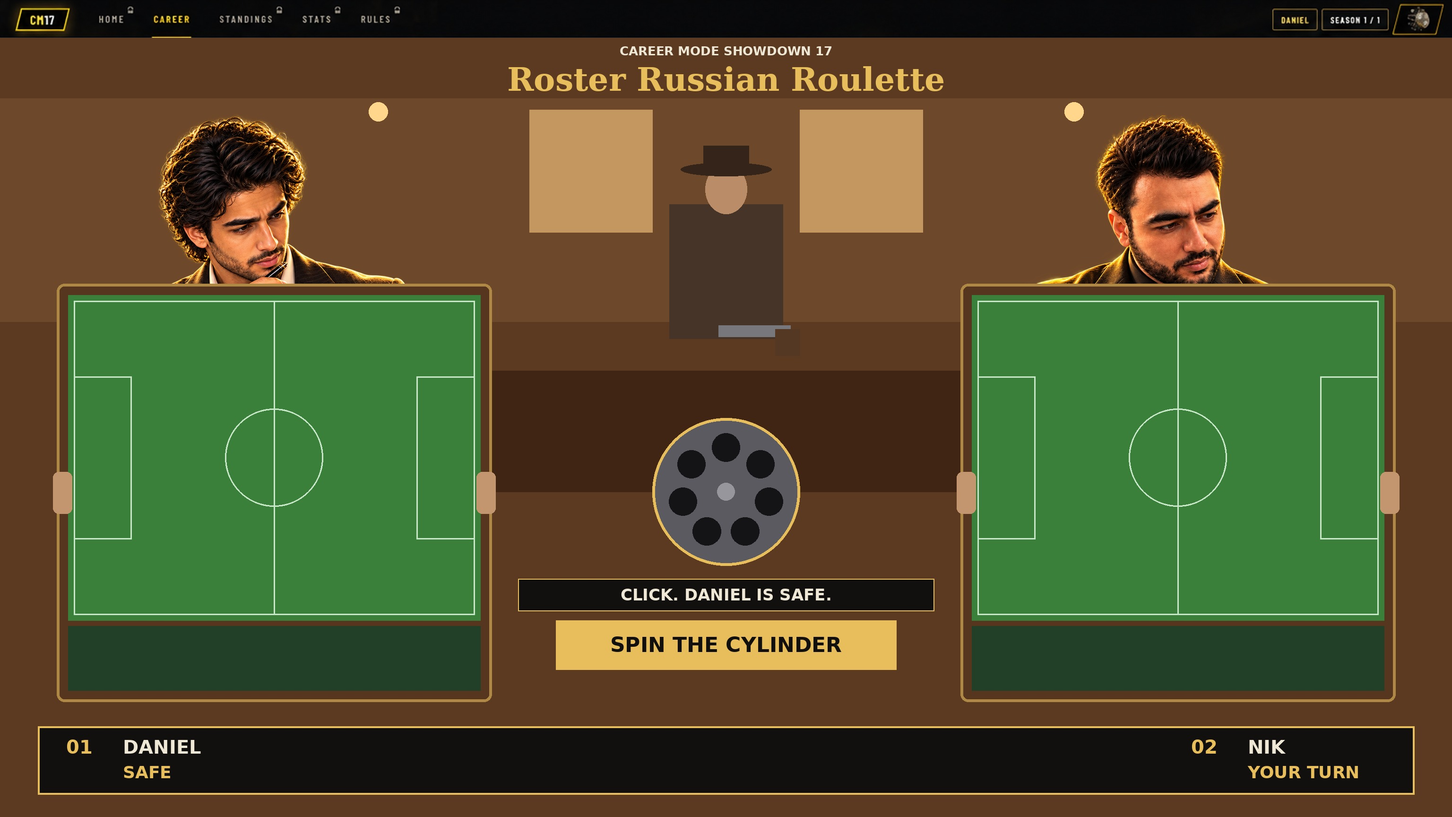
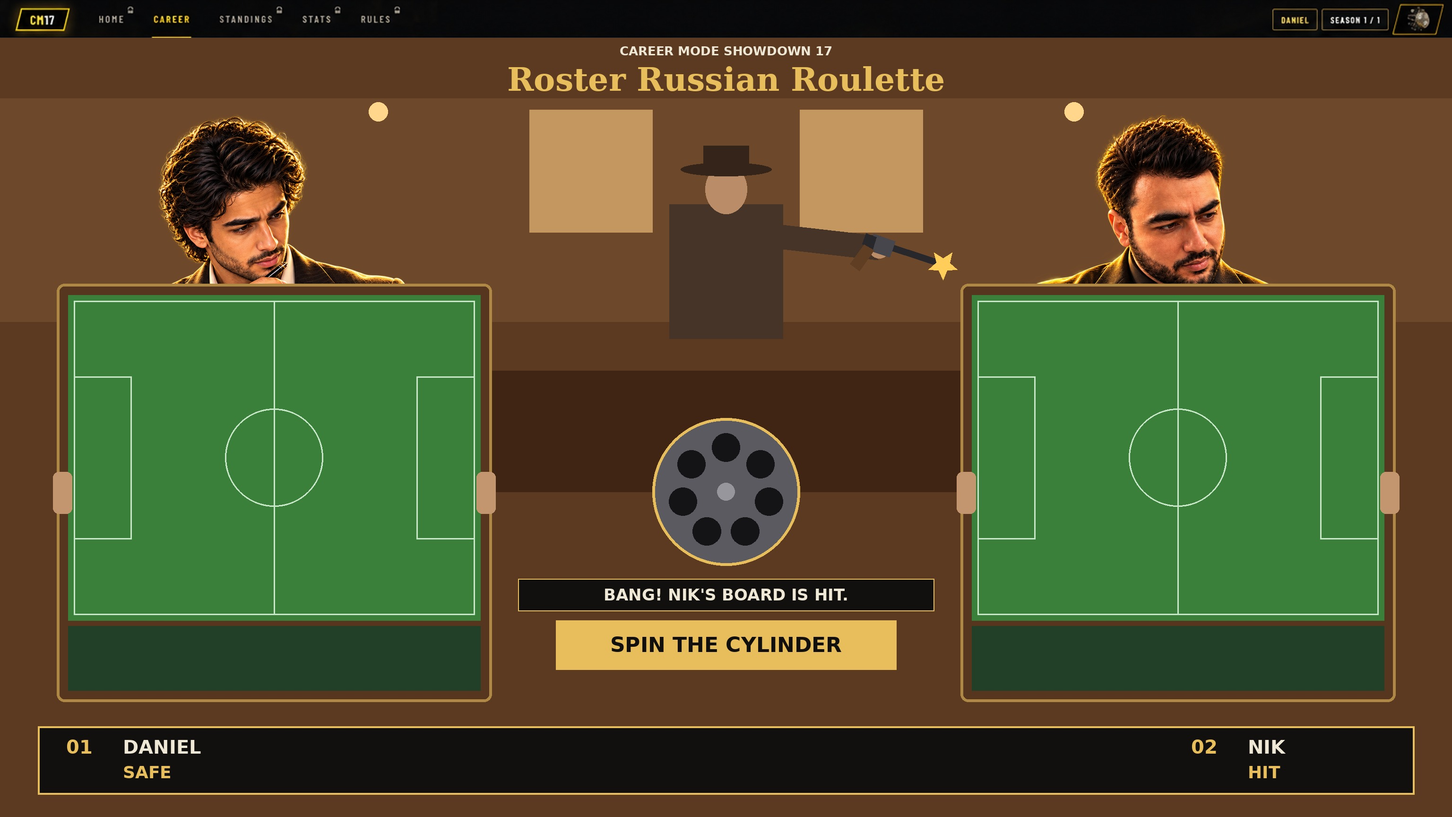
HO-040: tickets 1851-5..8 (room, dealer with revolver, Daniel and Nik board cut-outs), shot moment in 1851-1/2, CC-009 Fable 3D brief
Claude-Session: https://claude.ai/code/session_01GU43Q5sYPRm7BBmhFhnbcd

diff --git a/project-documents/factory/handoffs/CC-009_ROULETTE_3D_FABLE.md b/project-documents/factory/handoffs/CC-009_ROULETTE_3D_FABLE.md
@@ -1,0 +1,61 @@
+# CC-009 · Roster Russian Roulette: real 3D screen (HO-040, r87)
+
+MODEL: Fable 5.1 · EFFORT: High · SURFACE: Claude Code cloud session (claude.ai/code)
+STOP_BUDGET: $35 / 75 min. At 80% ($28) stop adding scope, commit, write BUILD_RESULT.md. At 100% stop.
+REPO: nikahanghojjati-oss/fifa17-career-showdown2
+START FROM: branch `claude/project-thread-6rq94x`. Commit and push to the branch your session is given; name it in BUILD_RESULT.md.
+WRITE ONLY IN: `visual-assets/v10_1/roulette/` (new). Never touch main, gameplay branches or other screens.
+
+## Goal
+Nik (owner) wants a **real 3D screen like the approved Special Player screen** (`visual-assets/v10_1/special-player/index.html` on `origin/factory/v1-wtt5ye`, three.js r128 from cdnjs, one HTML file + assets). Quality bar: 10 out of 10. His words: "a Red Dead Redemption game scene ... cafe or cowboy restaurant (NOT a saloon) ... a guy is sitting ... we spin the gun and it just shoots ... me and Daniel are holding two boards". He rated the shooter and the gun in his hand 3/10 in the flat sketch; **the shooter, the gun and the shot are the heart of this job.**
+
+Read first (in this order, nothing else needed):
+1. `project-documents/factory/r87/ROULETTE_PLAN.md` (look, layout numbers, hybrid 3D decision)
+2. `project-documents/factory/r87/NIK_REF_*.jpg|png` (4 room references: lamplit carved wood, gold ornaments, rows of glass lamps, balcony, green-felt round table; look only)
+3. `visual-assets/v10_1/special-player/index.html` (reuse its HUD CSS, fonts, test clock `window.__mq`, `?tools=1`, Web Audio pattern)
+4. Squads: `git show origin/research/r87-squads:gameplay/r87/squads/SQUADS_LAUNCH_170002.json` (FIFA 17 launch XI + 4 subs, 98 clubs: pos, name, number, rating)
+5. FIFA 17 squad screen look: `gameplay/r87/reference/fifa17-squad-screen-*.png` on that same branch.
+
+## Hybrid 3D (Nik's decision, do not change)
+Real 3D in three.js: room shell, round table with green felt + wooden rim, brass oil lantern (flickering point light), cups/coffee pot/cards, **the revolver with a seven-chamber cylinder**, the two boards, all lights, smoke, flash, bullet, camera moves. People are **picture layers** (camera-facing planes at real depth), because Nik's and Daniel's faces must stay exact. Never model or distort their faces.
+
+Picture layers are being made by Nik in ChatGPT now (tickets 1851-5..8). Build with fallbacks and an asset contract so each picture drops in with no code change:
+| file in `roulette/assets/` | ticket | until it exists |
+| --- | --- | --- |
+| `RR_ROOM.jpg` (16:9, empty room) | 1851-5 | build the room fully in 3D (fallback must look good on its own) |
+| `RR_DEALER.png` (alpha; seated, right arm out, revolver in hand aiming image-right) | 1851-6 | see "The shooter" |
+| `RR_DANIEL.png`, `RR_NIK.png` (alpha; holding board, green inside) | 1851-7/8 | anchors `visual-assets/v10_1/tr2/slice-01/assets/src/POSE_TRANSFER_{DANIEL_FOCUSED,NIK_TACTICAL}_V1.png` (factory/v1-wtt5ye) behind 3D boards |
+| `RR_FLASH.png`, `RR_CYLINDER.png` | 1851-4/3 | procedural flash sprite; 3D cylinder |
+Put the muzzle point, hand point and board quads for each layer in `roulette/platemap.json` so swapping is a number edit.
+
+## The shooter (most important)
+- The dealer is an original older cowboy (never Arthur Morgan / John Marston) seated across the table, facing camera.
+- **The revolver is a detailed real 3D model in his hand** (1873 single-action style: octagonal barrel, ejector rod, frame, fluted 7-chamber cylinder that really rotates on its axis, hammer that cocks, trigger, trigger guard, wooden grip). PBR steel (blued, worn edges) with a PMREM env map from the room so it reflects the lamps.
+- Until RR_DEALER.png exists, keep him convincing without a picture: dark-lit, hat brim shading the eyes, built from smooth 3D forms (coat, hat, shoulders, arm + gloved hand wrapped round the grip) and lit like the room; the gun and gloved hand are the sharp hero in the light. No primitive "robot" look; if a form can't look good, hide it in shadow or the frame edge. When the picture arrives, the 3D gun is hidden in wide shots and only used for the close-ups.
+- **Sequence per turn** (Daniel first, then Nik; 1 bullet in 7 chambers, seeded random; `?fire=1` forces a shot, `?fire=0` forces empty):
+  1. Idle: slow camera drift, lantern flicker, dust in light beams. Button SPIN THE CYLINDER.
+  2. Close-up: the cylinder swings out, one brass round slides in (first turn only), the cylinder snaps shut and is spun by the gloved hand: fast spin with real ratchet clicks, slows, settles on a chamber.
+  3. The hand raises the gun, thumb cocks the hammer, the gun aims at the current manager's **board** (never a face or body; aim at the target bubble on the board). 0.8 s tension: camera push-in, lantern sound, heartbeat.
+  4a. Empty: hammer falls, dry CLICK, small dust puff. Result line "CLICK. DANIEL IS SAFE." (or NIK).
+  4b. Shot: hammer falls, muzzle flash (additive sprite + 1-frame point light that lights the whole room), recoil kick of the gun and arm, smoke puff that lingers and drifts, a hot bullet tracer (fast, 0.12 s) to one random player bubble of the 15 on that manager's board, splinters/paper bits fly, the board jolts in his hands, a burnt hole decal stays on that bubble, the bubble turns red with RELEASED. Camera shake. Result line "BANG! <PLAYER NAME> IS RELEASED." Not gory, nobody is hurt.
+- Sound in Web Audio, off until the player turns it on (same as Special Player).
+
+## Boards (FIFA 17 squad screen look, from data)
+Wooden frame with brass corners. Inside: green pitch with white lines and the starting XI placed by position (GK bottom, attackers top), each a shirt in club colours + rating + short name like the FIFA 17 squad screen; under it one row of 4 subs. Draw on a CanvasTexture at 2x (crisp names). Preview: Daniel = Manchester United, Nik = Real Madrid; `?d=<club>&n=<club>` picks any club from the JSON. Expose `window.__rr.setBoards(danielClub, nikClub)` and `window.__rr.play({fire:true|false})` for Team G.
+
+## HUD (HTML over the canvas, reuse Special Player CSS)
+Desktop: top bar CM17 + HOME, CAREER (active), STANDINGS, STATS, RULES + chips DANIEL, SEASON 1 / 1 + gear; title "CAREER MODE SHOWDOWN 17" small + "Roster Russian Roulette" (gold, engraved Western feel); one result line; gold SPIN THE CYLINDER button; bottom panel 01 DANIEL + state / 02 NIK + state. Phone (<=900 px, upright): chips top-left, gear top-right, title, scene, result line, button, bottom tabs HOME CAREER STANDINGS STATS RULES. Camera/FOV re-framed for portrait so both boards are readable.
+
+## Hard rules
+- Daniel always LEFT, Nik always RIGHT, never mirrored. The dealer may be mirrored.
+- No dimming, grey/dark overlays, blur or see-through filters on any person or the screen (HO-027). Everyone lit naturally.
+- Not a saloon: no swinging doors, dancers, bar-fight props. No words in the room, no real logos, no real crests traced.
+- Phone no scroll at 393x660, 360x640, 375x553 (button visible). Nothing covers the button or bars.
+- Only three.js r128 (cdnjs) and Google Fonts. Lazy-loadable: one `index.html` + `assets/`; assets total <= 10 MB.
+- `prefers-reduced-motion`: shorten beats, no shake.
+
+## Prove it (assertions, not claims)
+Playwright (preinstalled, `require('playwright')`). Capture with the test clock at: idle, cylinder spin, aim, shot (flash frame), after shot, safe click, for desktop 1536x864 and phone 393x660 (+ 360x640, 375x553 idle). Save to `roulette/evidence/*.jpg`. Assert: no page scroll on phone sizes; button rect inside viewport; no console errors; FPS on desktop >= 50 (log it). Look at every capture yourself and fix what looks cheap before you finish, the shooter first.
+
+## Write at the end
+`visual-assets/v10_1/roulette/BUILD_RESULT.md`: branch + SHA, what is 3D, asset contract table, platemap, Team G hooks, evidence gallery list, known gaps, spend. Last line: `CC-009 DONE <sha>`.

diff --git a/project-documents/factory/tickets/TICKET-1851_1_OF_4_NEXT_ROULETTE.md b/project-documents/factory/tickets/TICKET-1851_1_OF_4_NEXT_ROULETTE.md
@@ -14,8 +14,8 @@ Steps for Nik:
    - looks like a real Red Dead Redemption 2-quality 3D game scene: a rich lamplit cowboy cafe: carved dark wood with gold ornaments, rows of glowing lamps, a balcony behind, round green-felt table with a lantern (not a saloon)
    - Daniel LEFT and Nik RIGHT look like themselves, in Western clothes, each holding a wooden board with both hands
    - both boards show an EMPTY green pitch and an empty dark strip under it (no players, no writing)
-   - an original older cowboy sits in the middle with the revolver on the table, pointing at the wall, not at anyone
-   - the steel seven-chamber cylinder in the middle, the line CLICK. DANIEL IS SAFE., the gold SPIN THE CYLINDER button, the bottom panel (01 DANIEL SAFE, 02 NIK YOUR TURN) and the top bar match the sketch word for word
+   - the cowboy in the middle fires the revolver from his outstretched hand at the top corner of Nik's board: whole gun clearly in his hand, flash, smoke, bullet streak; never at a face or body
+   - the steel seven-chamber cylinder in the middle, the line BANG! NIK'S BOARD IS HIT., the gold SPIN THE CYLINDER button, the bottom panel (01 DANIEL SAFE, 02 NIK HIT) and the top bar match the sketch word for word
    - nobody looks dimmed or greyed
    - Save only the picture this chat just made.
 5. If it passes, download it and drop it into the Roster Russian Roulette thread with `1851-1 DESKTOP`. If it fails, start again in a new chat (up to 3 tries).
@@ -29,9 +29,9 @@ Turn this flat layout sketch into a finished, photorealistic desktop game screen
 MOST IMPORTANT (never break these):
 - Use ONLY the words in the sketch, copied letter for letter. No other words anywhere: no signs, menus, posters, labels, logos or brand names in the room.
 - No new or moved buttons, tabs or icons. Never add SQUAD, TRANSFERS, COMPETITIONS, COMPETE, PROFILE, SHOP, a bell, an avatar or a search icon.
-- Nobody is hurt and no gun points at a person. No blood.
+- Nobody is hurt; the gun aims only at the corner of Nik's board, never at a face or body. No blood.
 - No characters from any real game or film; no real logos.
-- Words allowed, letter for letter: CAREER MODE SHOWDOWN 17, Roster Russian Roulette, CLICK. DANIEL IS SAFE., SPIN THE CYLINDER, 01, DANIEL, SAFE, 02, NIK, YOUR TURN, and the top bar exactly as drawn (CM17, HOME, CAREER, STANDINGS, STATS, RULES, and the small chips and gear at the right).
+- Words allowed, letter for letter: CAREER MODE SHOWDOWN 17, Roster Russian Roulette, BANG! NIK'S BOARD IS HIT., SPIN THE CYLINDER, 01, DANIEL, SAFE, 02, NIK, HIT, and the top bar exactly as drawn (CM17, HOME, CAREER, STANDINGS, STATS, RULES, and the small chips and gear at the right).
 
 The room (a cowboy cafe or restaurant, NOT a saloon: no bar fight, no dancers, no swinging doors):
 - An elegant 1899 Western town cafe in the evening, rich and warm like a top-quality 3D Western video game (the Red Dead Redemption 2 look and quality): dark carved wood panelling with thin gold art-nouveau ornaments, a coffered wooden ceiling with rows of glowing glass lamp shades, brass wall sconces, a wooden balcony with white turned railings in the background, a polished counter with lamps far behind, dark plank floor, a tall window showing a dusky blue street.
@@ -39,8 +39,9 @@ The room (a cowboy cafe or restaurant, NOT a saloon: no bar fight, no dancers, n
 - Warm amber lamplight, deep but natural shadows, rich wood and brass textures, photoreal, cinematic depth of field. Only the three men in the scene.
 
 The dealer (an ORIGINAL character, not from any game or film):
-- A weathered older Western man sitting at the far side of the table, facing us, in the place of the plain figure in the sketch: grey stubble, a dark felt hat with a flat brim, a waistcoat over a collarless shirt with rolled sleeves, a calm stare.
-- He holds an old seven-shot revolver in one hand resting on the green felt, pointing at the side wall, never at a person.
+- A weathered Western man of about 55 sitting at the far side of the table, facing us, in the place of the plain figure in the sketch: grey stubble, a dark brown felt hat with a flat brim, a long dark grey coat over a brown waistcoat and a collarless off-white shirt, a calm, dangerous stare.
+- THE MOMENT OF THE SHOT, exactly as the sketch shows: his right arm is stretched out towards Nik's board, an old 1873-style revolver held firmly in his right hand (whole gun visible: long barrel, round cylinder, hammer, trigger guard, wooden grip; finger on the trigger, five fingers). The gun fires at the TOP LEFT CORNER of Nik's board only, far from Nik's face and body: a bright orange-white muzzle flash, a puff of grey smoke, a thin glowing bullet streak to the board corner and a few wood splinters there. Not aimed at any person, no blood.
+- He is lit as well as everyone else and is sharp and detailed: a real top-quality 3D game character.
 
 Daniel (left) and Nik (right):
 - Keep both men from the sketch exactly as they are: same faces, same hair, same beards, same skin tones, same build. Daniel always on the LEFT, Nik always on the RIGHT. Never swap or mirror them.
@@ -52,14 +53,14 @@ The two boards (the game draws the players on them later):
 - Each board is a sturdy wooden frame with brass corners, held flat and square to the camera exactly where the sketch shows it.
 - Inside each frame: a flat, evenly lit green football pitch with thin white lines exactly as in the sketch, and below it the plain dark green strip. Keep both COMPLETELY EMPTY: no players, shirts, names, numbers, dots or writing.
 
-The seven-chamber cylinder:
+The seven-chamber cylinder (Version 3, 29 Oct 1:55 a.m. UTC: the shot moment):
 - The round grey disc with seven holes in the sketch becomes a polished steel revolver cylinder seen straight on, seven empty chambers in a ring, with a thin gold rim, floating as a game element in the same place and size.
 
 The interface (keep it exactly where the sketch has it):
 - The top bar stays exactly as in the sketch.
 - At the top centre: CAREER MODE SHOWDOWN 17 small, and under it Roster Russian Roulette as a premium gold title with an engraved Western look, like a luxury gold-leaf sign.
-- Under the cylinder: a slim black strip with a thin gold edge holding CLICK. DANIEL IS SAFE., then the polished gold SPIN THE CYLINDER button.
-- At the bottom: a slim glossy black panel with a thin gold edge: left 01 DANIEL with SAFE under it, right 02 NIK with YOUR TURN under it.
+- Under the cylinder: a slim black strip with a thin gold edge holding BANG! NIK'S BOARD IS HIT., then the polished gold SPIN THE CYLINDER button.
+- At the bottom: a slim glossy black panel with a thin gold edge: left 01 DANIEL with SAFE under it, right 02 NIK with HIT under it.
 - Nothing covers anything else. Every word sharp and easy to read.
 
 Same wide landscape framing as the sketch, 16:9, largest size available.

diff --git a/project-documents/factory/tickets/TICKET-1851_2_OF_4_PHONE_ROULETTE.md b/project-documents/factory/tickets/TICKET-1851_2_OF_4_PHONE_ROULETTE.md
@@ -13,9 +13,9 @@ Steps for Nik:
 4. Check the picture:
    - same Red Dead Redemption 2-quality cowboy cafe look as the desktop (not a saloon)
    - Daniel LEFT and Nik RIGHT look like themselves, each holding an upright wooden board; boards EMPTY inside
-   - the cowboy dealer in the middle behind them, revolver pointing at the wall
+   - the cowboy in the middle fires the revolver from his outstretched hand at the top corner of Nik's board
    - top left DANIEL and SEASON 1 / 1, gear top right; bottom tabs HOME, CAREER (gold), STANDINGS, STATS, RULES with their icons
-   - CLICK. DANIEL IS SAFE. and the gold SPIN THE CYLINDER button above the tabs
+   - BANG! NIK'S BOARD IS HIT. and the gold SPIN THE CYLINDER button above the tabs
    - nobody looks dimmed or greyed
    - Save only the picture this chat just made.
 5. If it passes, download it and drop it into the Roster Russian Roulette thread with `1851-2 PHONE`. If it fails, start again in a new chat (up to 3 tries).
@@ -29,9 +29,9 @@ Turn this flat phone layout sketch into a finished, photorealistic upright phone
 MOST IMPORTANT (never break these):
 - Use ONLY the words in the sketch, copied letter for letter. No other words anywhere: no signs, menus, posters, labels, logos or brand names in the room.
 - No new or moved buttons, tabs or icons. Never add SQUAD, TRANSFERS, COMPETITIONS, COMPETE, PROFILE, SHOP, a bell, an avatar or a search icon.
-- Nobody is hurt and no gun points at a person. No blood.
+- Nobody is hurt; the gun aims only at the corner of Nik's board, never at a face or body. No blood.
 - No characters from any real game or film; no real logos.
-- Words allowed, letter for letter: DANIEL, SEASON 1 / 1, CAREER MODE SHOWDOWN 17, Roster Russian Roulette, CLICK. DANIEL IS SAFE., SPIN THE CYLINDER, and the bottom tabs HOME, CAREER, STANDINGS, STATS, RULES.
+- Words allowed, letter for letter: DANIEL, SEASON 1 / 1, CAREER MODE SHOWDOWN 17, Roster Russian Roulette, BANG! NIK'S BOARD IS HIT., SPIN THE CYLINDER, and the bottom tabs HOME, CAREER, STANDINGS, STATS, RULES.
 - The bars stay exactly: two chips at the top left (DANIEL, SEASON 1 / 1) and a gold gear at the top right; the bottom tabs HOME (house), CAREER (trophy, highlighted gold), STANDINGS (three lines), STATS (bar chart), RULES (page).
 
 The room (a cowboy cafe or restaurant, NOT a saloon: no bar fight, no dancers, no swinging doors):
@@ -40,8 +40,9 @@ The room (a cowboy cafe or restaurant, NOT a saloon: no bar fight, no dancers, n
 - Warm amber lamplight, deep but natural shadows, rich wood and brass textures, photoreal, cinematic depth of field. Only the three men in the scene.
 
 The dealer (an ORIGINAL character, not from any game or film):
-- A weathered older Western man sitting at the far side of the table, facing us, in the place of the plain figure in the sketch: grey stubble, a dark felt hat with a flat brim, a waistcoat over a collarless shirt with rolled sleeves, a calm stare.
-- He holds an old seven-shot revolver in one hand resting on the green felt, pointing at the side wall, never at a person.
+- A weathered Western man of about 55 sitting at the far side of the table, facing us, in the place of the plain figure in the sketch: grey stubble, a dark brown felt hat with a flat brim, a long dark grey coat over a brown waistcoat and a collarless off-white shirt, a calm, dangerous stare.
+- THE MOMENT OF THE SHOT, exactly as the sketch shows: his right arm is stretched out towards Nik's board, an old 1873-style revolver held firmly in his right hand (whole gun visible: long barrel, round cylinder, hammer, trigger guard, wooden grip; finger on the trigger, five fingers). The gun fires at the TOP LEFT CORNER of Nik's board only, far from Nik's face and body: a bright orange-white muzzle flash, a puff of grey smoke, a thin glowing bullet streak to the board corner and a few wood splinters there. Not aimed at any person, no blood.
+- He is lit as well as everyone else and is sharp and detailed: a real top-quality 3D game character.
 
 Daniel (left) and Nik (right):
 - Keep both men from the sketch exactly as they are: same faces, same hair, same beards, same skin tones, same build. Daniel always on the LEFT, Nik always on the RIGHT. Never swap or mirror them.
@@ -53,12 +54,12 @@ The two boards (the game draws the players on them later):
 - Each board is a sturdy wooden frame with brass corners, held flat and square to the camera exactly where the sketch shows it.
 - Inside each frame: a flat, evenly lit green football pitch with thin white lines exactly as in the sketch, and below it the plain dark green strip. Keep both COMPLETELY EMPTY: no players, shirts, names, numbers, dots or writing.
 
-The seven-chamber cylinder:
+The seven-chamber cylinder (Version 3, 29 Oct 1:55 a.m. UTC: the shot moment):
 - The round grey disc with seven holes in the sketch becomes a polished steel revolver cylinder seen straight on, seven empty chambers in a ring, with a thin gold rim, floating as a game element in the same place and size.
 
 The interface (keep it exactly where the sketch has it):
 - CAREER MODE SHOWDOWN 17 small, and under it Roster Russian Roulette as a premium gold title with an engraved Western look.
-- Under the boards: a slim black strip with a thin gold edge holding CLICK. DANIEL IS SAFE., then the polished gold SPIN THE CYLINDER button, then the black bottom tab bar with a thin gold line on top.
+- Under the boards: a slim black strip with a thin gold edge holding BANG! NIK'S BOARD IS HIT., then the polished gold SPIN THE CYLINDER button, then the black bottom tab bar with a thin gold line on top.
 - Nothing covers anything else. Every word sharp and easy to read.
 
 Same upright phone framing as the sketch, portrait 9:16 or taller, largest size available.

diff --git a/project-documents/factory/tickets/TICKET-1851_6_OF_8_RR_DEALER.md b/project-documents/factory/tickets/TICKET-1851_6_OF_8_RR_DEALER.md
@@ -1,0 +1,36 @@
+# Ticket 1851 · 6 of 8 · 3D layer: the dealer with the revolver in his hand (r87, HO-040)
+
+One picture only. Thu 29 Oct 2026, Team V. Nik: the shooter and the gun in his hand must be 10 out of 10. This is the man who shoots. He sits at the far side of the 3D table; code adds the flash, smoke, recoil and bullet at his gun's muzzle, and mirrors him when he turns to Daniel's board.
+
+**Read this first:** this ticket is for Nik. Do not upload this file to ChatGPT; paste only the prompt.
+
+**Save the result as:** `RR_DEALER.png`
+
+Steps for Nik:
+1. Open a **normal new ChatGPT chat outside any project** (not a Temporary Chat).
+2. Attach nothing.
+3. Paste the prompt below exactly. If ChatGPT offers to change it, reply: `No, use my prompt exactly.`
+4. Check the picture against the list below. Save only the picture this chat just made.
+5. If it passes, download it and drop it into the Roster Russian Roulette thread with `1851-6 DEALER`. If it fails, start again in a new chat (up to 3 tries).
+
+Check list:
+- looks like a real top-quality 3D Western game character (Red Dead Redemption 2 level), NOT any real game character (not Arthur Morgan or John Marston)
+- sitting, seen from the front, cut at the waist, on plain grey
+- his RIGHT arm stretched out towards the RIGHT edge of the picture, an old revolver held firmly in his hand: whole gun visible, finger on the trigger, thumb near the hammer, five fingers
+- aiming out of the picture to the right, NOT at us
+- no table, no other people, no words
+
+Prompt:
+
+```
+A photorealistic character render from a top-quality 3D Western video game (the Red Dead Redemption 2 look and quality) of an ORIGINAL character, not from any game or film: a weathered Western man of about 55, sitting on a chair, seen from the front at eye level, cut at the waist, on a plain flat mid-grey background.
+
+MOST IMPORTANT (never break these):
+- His right arm is stretched straight out towards the RIGHT edge of the picture, holding an old 1873-style single-action revolver firmly in his right hand, the gun seen clearly from the side, aiming out of the picture to the right. He never aims at the viewer.
+- The whole revolver is visible and correct: long barrel, round cylinder, hammer, trigger guard, wooden grip; his index finger on the trigger, thumb near the hammer, five fingers.
+- Nothing else: no table, no other people, no words, no logos.
+
+Him: deep-set grey eyes with a calm, dangerous stare towards the right, grey stubble, a weathered tanned face, a dark brown felt hat with a flat brim, a long dark grey coat open over a brown waistcoat and a collarless off-white shirt, a bandana loosely at his neck. His left hand rests calmly on his left knee. Warm amber lamplight from the upper left, a soft rim light, natural skin texture.
+
+Portrait 3:2 landscape (wider than tall so the arm and gun fit), largest size available.
+```

diff --git a/project-documents/factory/tickets/TICKET-1851_7_OF_8_RR_DANIEL.md b/project-documents/factory/tickets/TICKET-1851_7_OF_8_RR_DANIEL.md
@@ -1,0 +1,35 @@
+# Ticket 1851 · 7 of 8 · 3D layer: DANIEL holding his squad board (r87, HO-040)
+
+One picture only. Thu 29 Oct 2026, Team V. DANIEL stands on the LEFT of the 3D table holding his board. Code draws his starting XI and 4 subs on the green part. This is a likeness edit of his golden anchor, one man per chat.
+
+**Read this first:** this ticket is for Nik. Do not upload this file to ChatGPT; paste only the prompt.
+
+**Save the result as:** `RR_DANIEL.png`
+
+Steps for Nik:
+1. Open a **normal new ChatGPT chat outside any project** (not a Temporary Chat).
+2. Attach this one file only: **POSE_TRANSFER_DANIEL_FOCUSED_V1.png**. On iPhone open https://github.com/nikahanghojjati-oss/fifa17-career-showdown2/blob/factory/v1-wtt5ye/visual-assets/v10_1/tr2/slice-01/assets/src/POSE_TRANSFER_DANIEL_FOCUSED_V1.png in Safari, press and hold the picture, then Save to Photos.
+3. Paste the prompt below exactly. If ChatGPT offers to change it, reply: `No, use my prompt exactly.`
+4. Check the picture against the list below. Save only the picture this chat just made.
+5. If it passes, download it and drop it into the Roster Russian Roulette thread with `1851-7 DANIEL`. If it fails, start again in a new chat (up to 3 tries).
+
+Check list:
+- looks exactly like DANIEL at a glance (face, hair, beard, skin, build), same clothes
+- holds a big wooden board in front of his chest with both hands on its sides, five fingers each
+- the board's inside is plain flat green, completely empty
+- full colour, not dimmed; transparent or plain background; no words
+
+Prompt:
+
+```
+Edit this photo of this man. Do not change who he is: keep his face, black curly hair, light beard, skin tone, build, and his charcoal pinstripe suit and open white shirt exactly as they are. Change only his pose and what he holds:
+
+- He holds a large flat wooden board up in front of his chest with both hands, one hand on each side edge, the board facing the camera square and flat, covering him from the chest to the waist.
+- The board: a sturdy dark wooden frame with small brass corners; the inside is one plain, flat, evenly lit green surface, completely empty: no lines, no players, no writing.
+- He looks at the camera with a tense, focused expression.
+- Both hands fully visible, five fingers each.
+
+Waist-up, head about one quarter of the image height, a little space above the hair.
+Same warm golden lighting as the original, full colour and natural brightness, with no glow or outline around the body.
+Portrait 2:3, the largest size available. Transparent background. No text anywhere.
+```

diff --git a/project-documents/factory/tickets/TICKET-1851_5_OF_8_RR_ROOM.md b/project-documents/factory/tickets/TICKET-1851_5_OF_8_RR_ROOM.md
@@ -1,0 +1,36 @@
+# Ticket 1851 · 5 of 8 · 3D layer: the empty cowboy cafe room (r87, HO-040)
+
+One picture only. Thu 29 Oct 2026, Team V. Nik wants a real 3D screen like the Special Player screen. The table, revolver, boards and lights are built in 3D code; this picture is the room behind them (like the stadium picture in the Special Player screen). No people.
+
+**Read this first:** this ticket is for Nik. Do not upload this file to ChatGPT; paste only the prompt.
+
+**Save the result as:** `RR_ROOM.png`
+
+Steps for Nik:
+1. Open a **normal new ChatGPT chat outside any project** (not a Temporary Chat).
+2. Attach nothing.
+3. Paste the prompt below exactly. If ChatGPT offers to change it, reply: `No, use my prompt exactly.`
+4. Check the picture against the list below. Save only the picture this chat just made.
+5. If it passes, download it and drop it into the Roster Russian Roulette thread with `1851-5 ROOM`. If it fails, start again in a new chat (up to 3 tries).
+
+Check list:
+- a rich lamplit 1899 cowboy cafe like your pictures: carved dark wood with thin gold ornaments, rows of glowing glass lamp shades, a balcony with white railings at the back, brass lamps, a dark plank floor, a window to a dusky blue street
+- NOT a saloon: no swinging doors, no dancers, no bottles wall as the main thing
+- NO people at all
+- the middle of the floor in front is EMPTY (the 3D table goes there)
+- no words, signs or logos
+
+Prompt:
+
+```
+A wide, photorealistic interior of an elegant 1899 Western town cafe in the evening, like a frame from a top-quality 3D Western video game (the Red Dead Redemption 2 look and quality). Camera at standing eye level in the middle of the room, looking straight at the back wall.
+
+MOST IMPORTANT (never break these):
+- No people at all, no animals.
+- The middle of the floor in the front half of the picture is completely empty: clear dark wooden floorboards, no table, no chairs there.
+- No words, letters, signs, posters or logos anywhere.
+
+The room: dark carved wood panelling with thin gold art-nouveau ornaments, a coffered wooden ceiling with rows of glowing frosted glass lamp shades, brass wall sconces, a wooden balcony with white turned railings along the back, a polished wooden counter with lamps far at the back, a few small round tables with white tablecloths and wooden chairs along the side walls, a tall window showing a dusky blue street, dark polished plank floor. Warm amber lamplight, deep natural shadows, rich wood and brass, a little haze in the air, cinematic.
+
+Wide 16:9, largest size available.
+```

diff --git a/project-documents/factory/tickets/TICKET-1851_8_OF_8_RR_NIK.md b/project-documents/factory/tickets/TICKET-1851_8_OF_8_RR_NIK.md
@@ -1,0 +1,35 @@
+# Ticket 1851 · 8 of 8 · 3D layer: NIK holding his squad board (r87, HO-040)
+
+One picture only. Thu 29 Oct 2026, Team V. NIK stands on the RIGHT of the 3D table holding his board. Code draws his starting XI and 4 subs on the green part. This is a likeness edit of his golden anchor, one man per chat.
+
+**Read this first:** this ticket is for Nik. Do not upload this file to ChatGPT; paste only the prompt.
+
+**Save the result as:** `RR_NIK.png`
+
+Steps for Nik:
+1. Open a **normal new ChatGPT chat outside any project** (not a Temporary Chat).
+2. Attach this one file only: **POSE_TRANSFER_NIK_TACTICAL_V1.png**. On iPhone open https://github.com/nikahanghojjati-oss/fifa17-career-showdown2/blob/factory/v1-wtt5ye/visual-assets/v10_1/tr2/slice-01/assets/src/POSE_TRANSFER_NIK_TACTICAL_V1.png in Safari, press and hold the picture, then Save to Photos.
+3. Paste the prompt below exactly. If ChatGPT offers to change it, reply: `No, use my prompt exactly.`
+4. Check the picture against the list below. Save only the picture this chat just made.
+5. If it passes, download it and drop it into the Roster Russian Roulette thread with `1851-8 NIK`. If it fails, start again in a new chat (up to 3 tries).
+
+Check list:
+- looks exactly like NIK at a glance (face, hair, beard, skin, build), same clothes
+- holds a big wooden board in front of his chest with both hands on its sides, five fingers each
+- the board's inside is plain flat green, completely empty
+- full colour, not dimmed; transparent or plain background; no words
+
+Prompt:
+
+```
+Edit this photo of this man. Do not change who he is: keep his face, short dark hair, full beard, skin tone, build, and his dark suit, black shirt, black tie and wristwatch exactly as they are. Change only his pose and what he holds:
+
+- He holds a large flat wooden board up in front of his chest with both hands, one hand on each side edge, the board facing the camera square and flat, covering him from the chest to the waist.
+- The board: a sturdy dark wooden frame with small brass corners; the inside is one plain, flat, evenly lit green surface, completely empty: no lines, no players, no writing.
+- He looks at the camera with a tense, focused expression.
+- Both hands fully visible, five fingers each.
+
+Waist-up, head about one quarter of the image height, a little space above the hair.
+Same warm golden lighting as the original, full colour and natural brightness, with no glow or outline around the body.
+Portrait 2:3, the largest size available. Transparent background. No text anywhere.
+```

diff --git a/project-documents/factory/tickets/TICKET-1851_4_OF_8_RR_FLASH.md b/project-documents/factory/tickets/TICKET-1851_4_OF_8_RR_FLASH.md
@@ -1,4 +1,4 @@
-# Ticket 1851 · 4 of 4 · Animation layer: muzzle flash (r87, HO-040)
+# Ticket 1851 · 4 of 8 · Animation layer: muzzle flash (r87, HO-040)
 
 One picture only. Thu 29 Oct 2026, Team V. The flash that shows for a split second when the shot fires. It is shot on black so Claude can turn it into a glowing layer. The bullet trail and the hole in the board are drawn by Claude in code (sharper and exact).
 

diff --git a/project-documents/factory/tickets/TICKET-1851_3_OF_8_RR_CYLINDER.md b/project-documents/factory/tickets/TICKET-1851_3_OF_8_RR_CYLINDER.md
@@ -1,4 +1,4 @@
-# Ticket 1851 · 3 of 4 · Animation layer: seven-chamber revolver cylinder (r87, HO-040)
+# Ticket 1851 · 3 of 8 · Animation layer: seven-chamber revolver cylinder (r87, HO-040)
 
 One picture only. Thu 29 Oct 2026, Team V. The game spins this cylinder in code, so it must be seen perfectly straight on, perfectly round, centred. Claude cuts it out and makes the empty, loaded and spinning versions.
 
